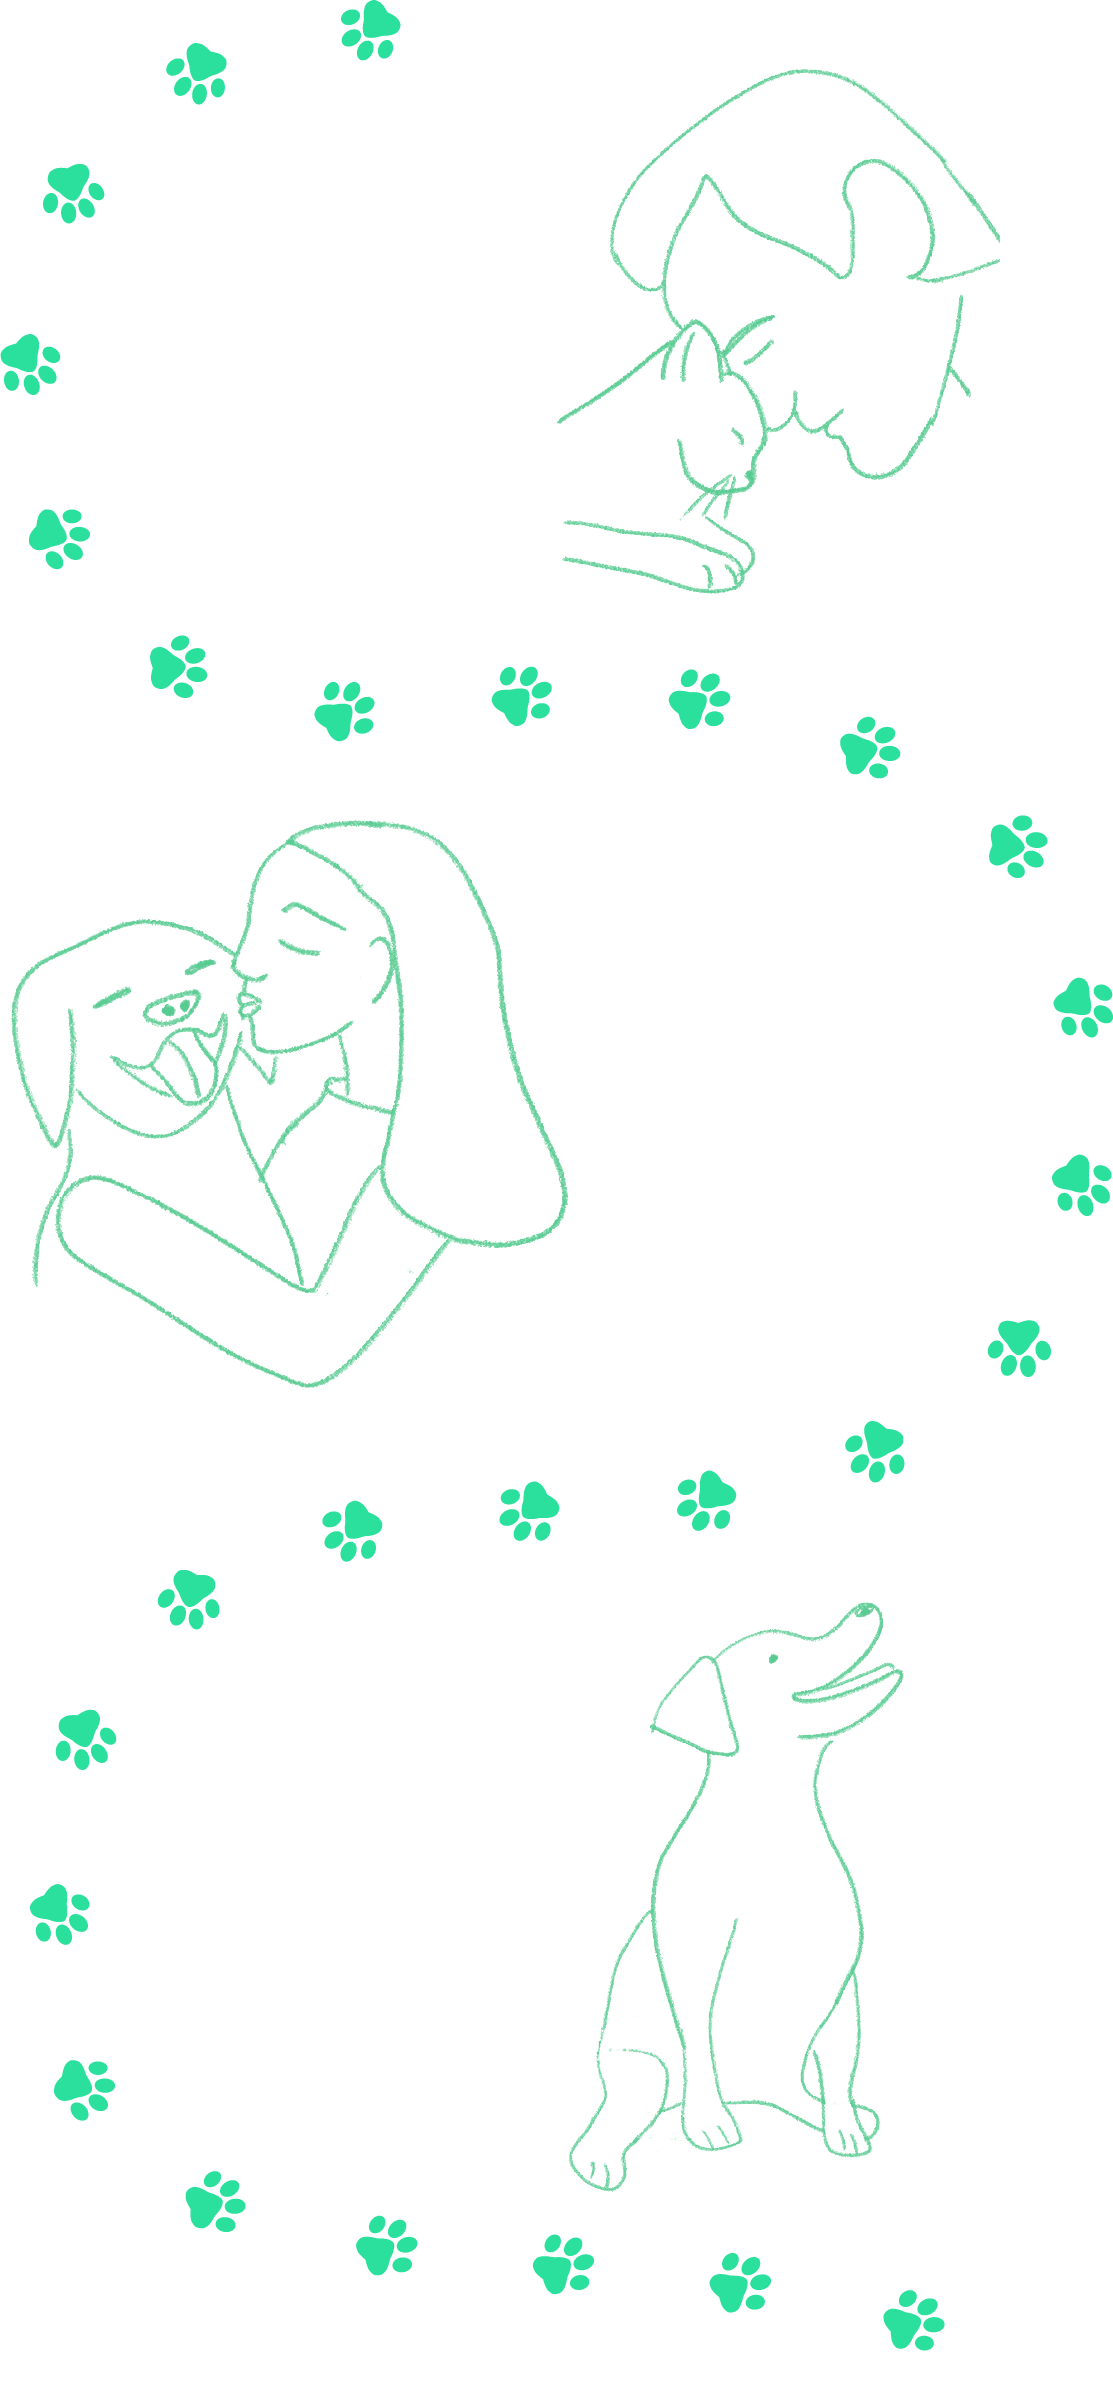
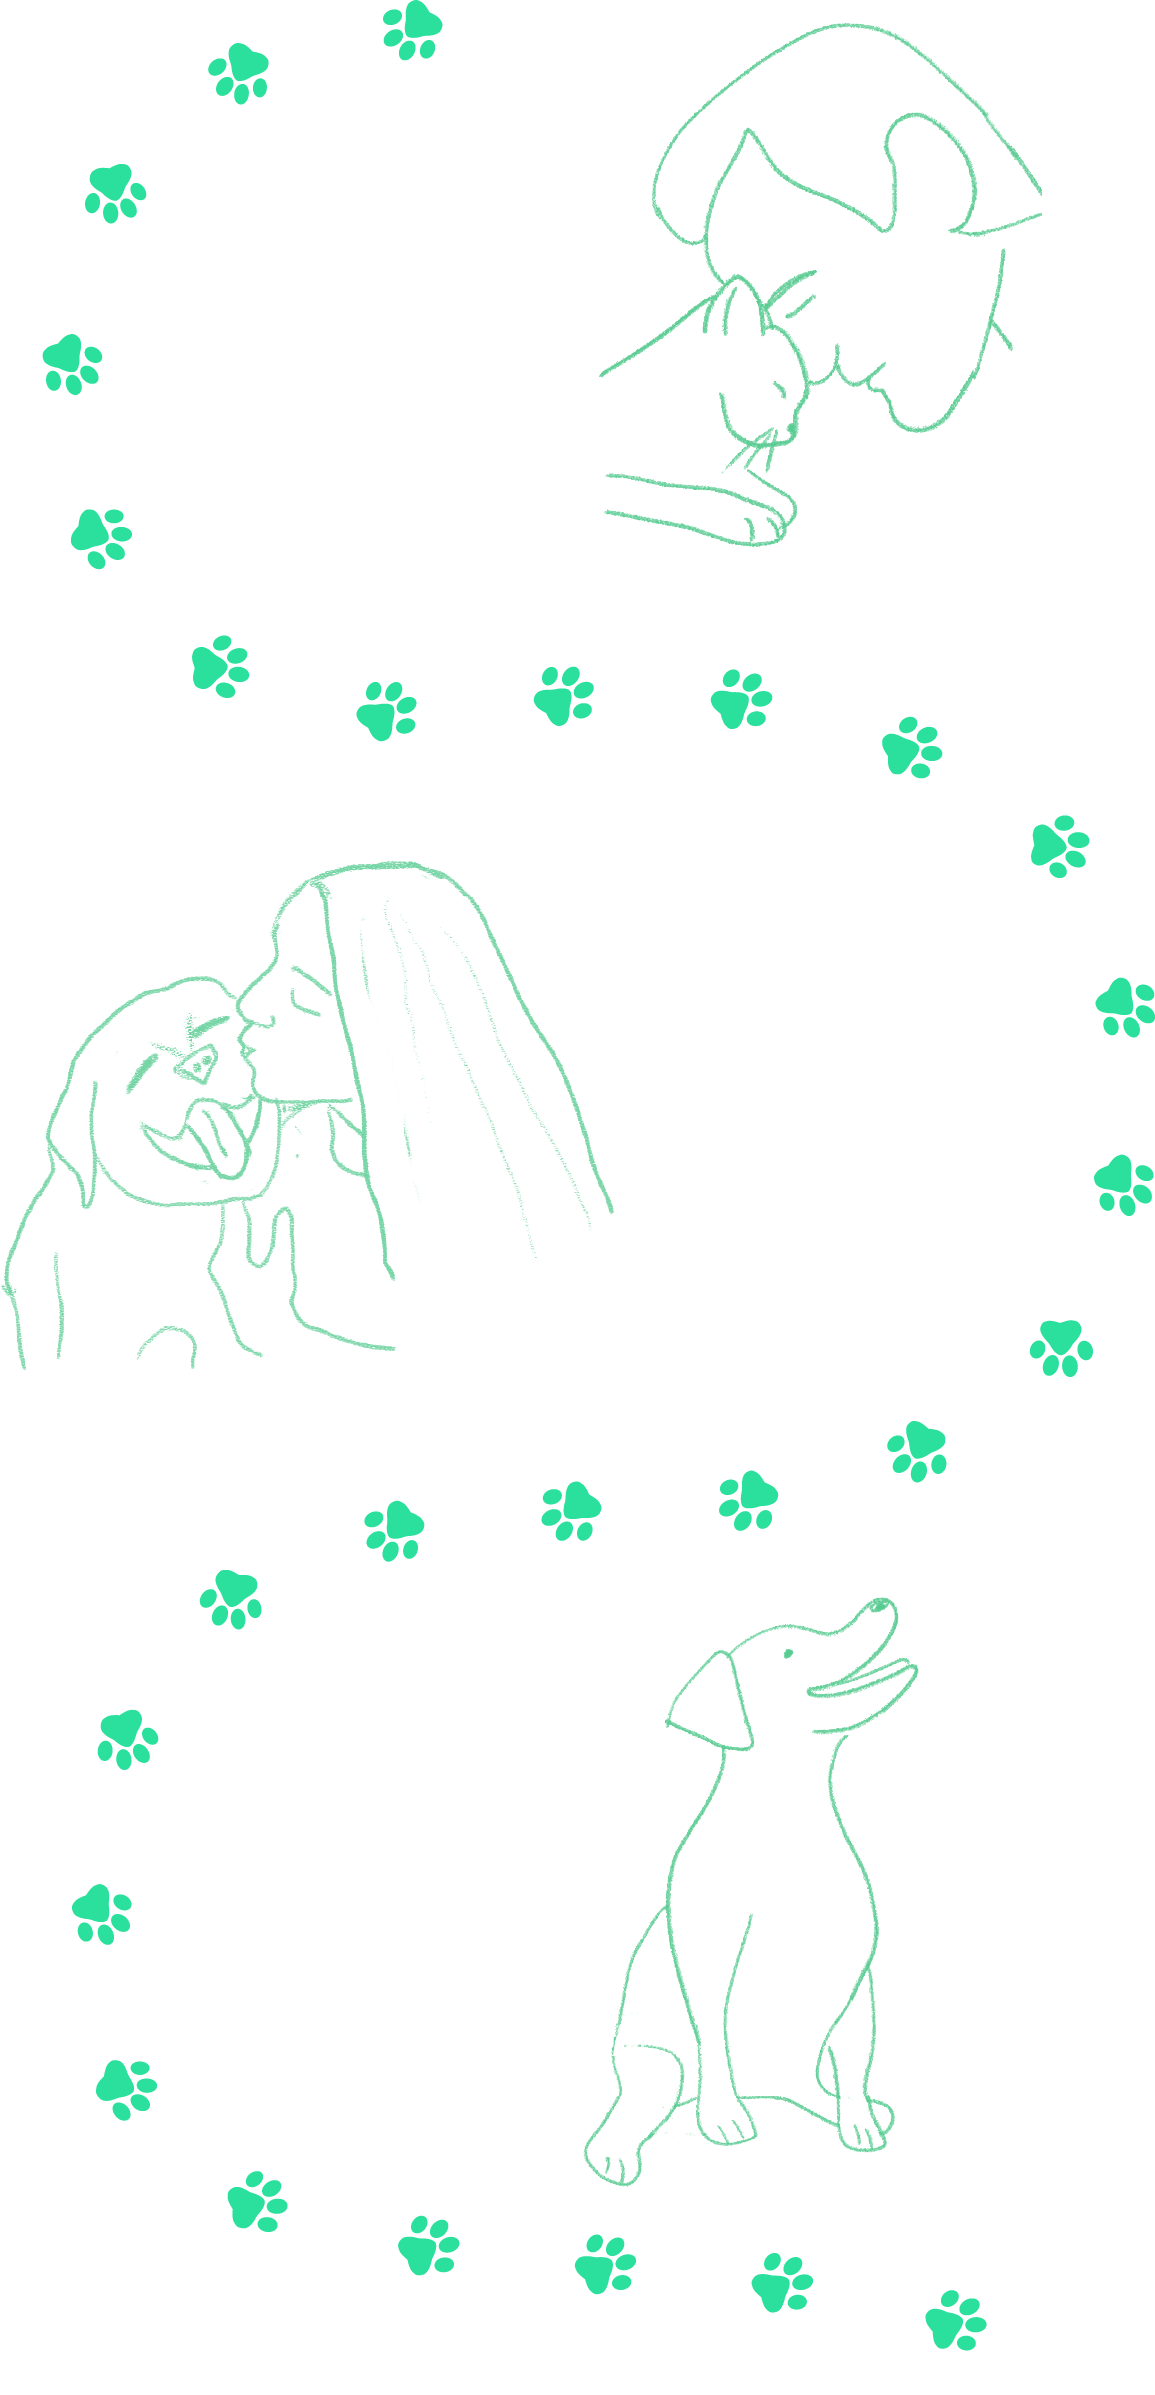
Updated home image (thanks, Ines) and other css

diff --git a/src/index.css b/src/index.css
@@ -71,14 +71,8 @@ input[type="radio"]:focus {
   box-shadow: 0 0 0 0.25rem rgb(107,255,184, 0.3);
 }
 
-/* input#password.form-control:focus-visible {
-  background-color: #2AD897;
-} */
-
 /* Change autofill background color */
-input:-webkit-autofill,
-input:-webkit-autofill:hover,
-input:-webkit-autofill:focus {
+input:-webkit-autofill {
   -webkit-box-shadow: 0 0 0px 1000px white inset !important;
 }
 
@@ -260,12 +254,12 @@ input:-webkit-autofill {
 
 .aboutUs {
   height: 100%;
-  padding: 20% 0%;
+  padding: 40% 0%;
 }
 
 .successStories {
   height: 100%;
-  padding: 20% 0%;
+  padding: 10% 0% 25% 0%;
 }
 
 .sectionTitle {

diff --git a/src/pages/Login.jsx b/src/pages/Login.jsx
@@ -70,8 +70,6 @@ function Login() {
     }
   };
 
-
-
   return (<>
     <Container fluid>
 
@@ -109,7 +107,7 @@ function Login() {
 
       {error && <p className="text-danger">{error}</p>}
 
-      <Button className='primaryButton m-2' type="submit" disabled={loading}>
+      <Button className='primaryButton m-2' variant="success" type="submit" disabled={loading}>
         {loading ? 'Logging in...' : 'Submit'}
       </Button>
 
